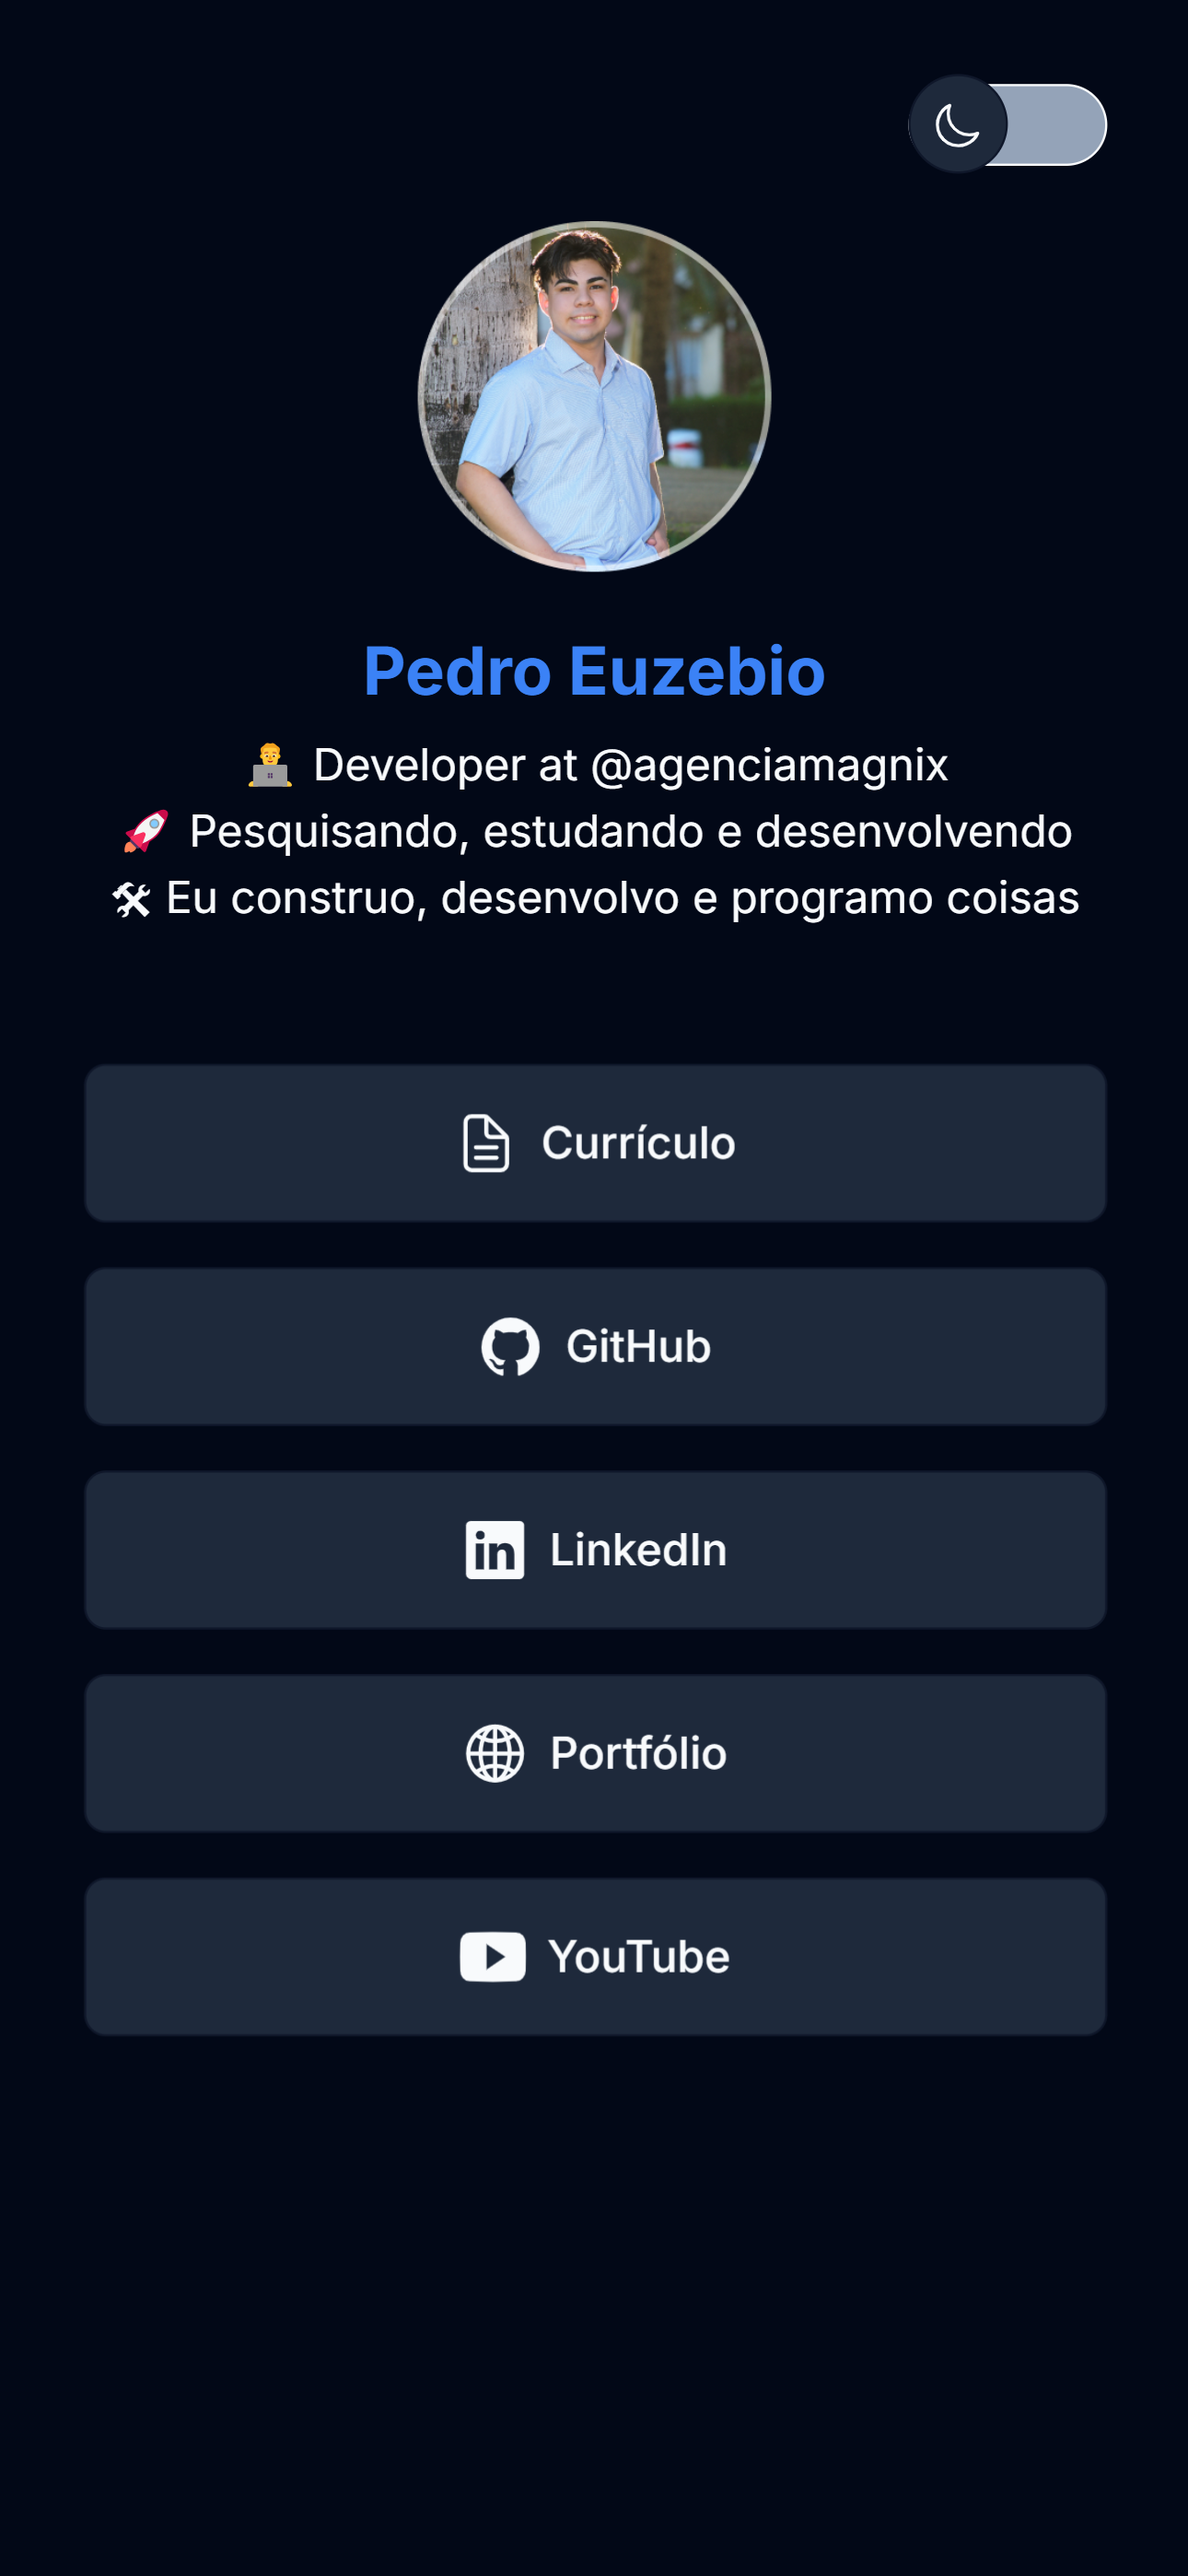
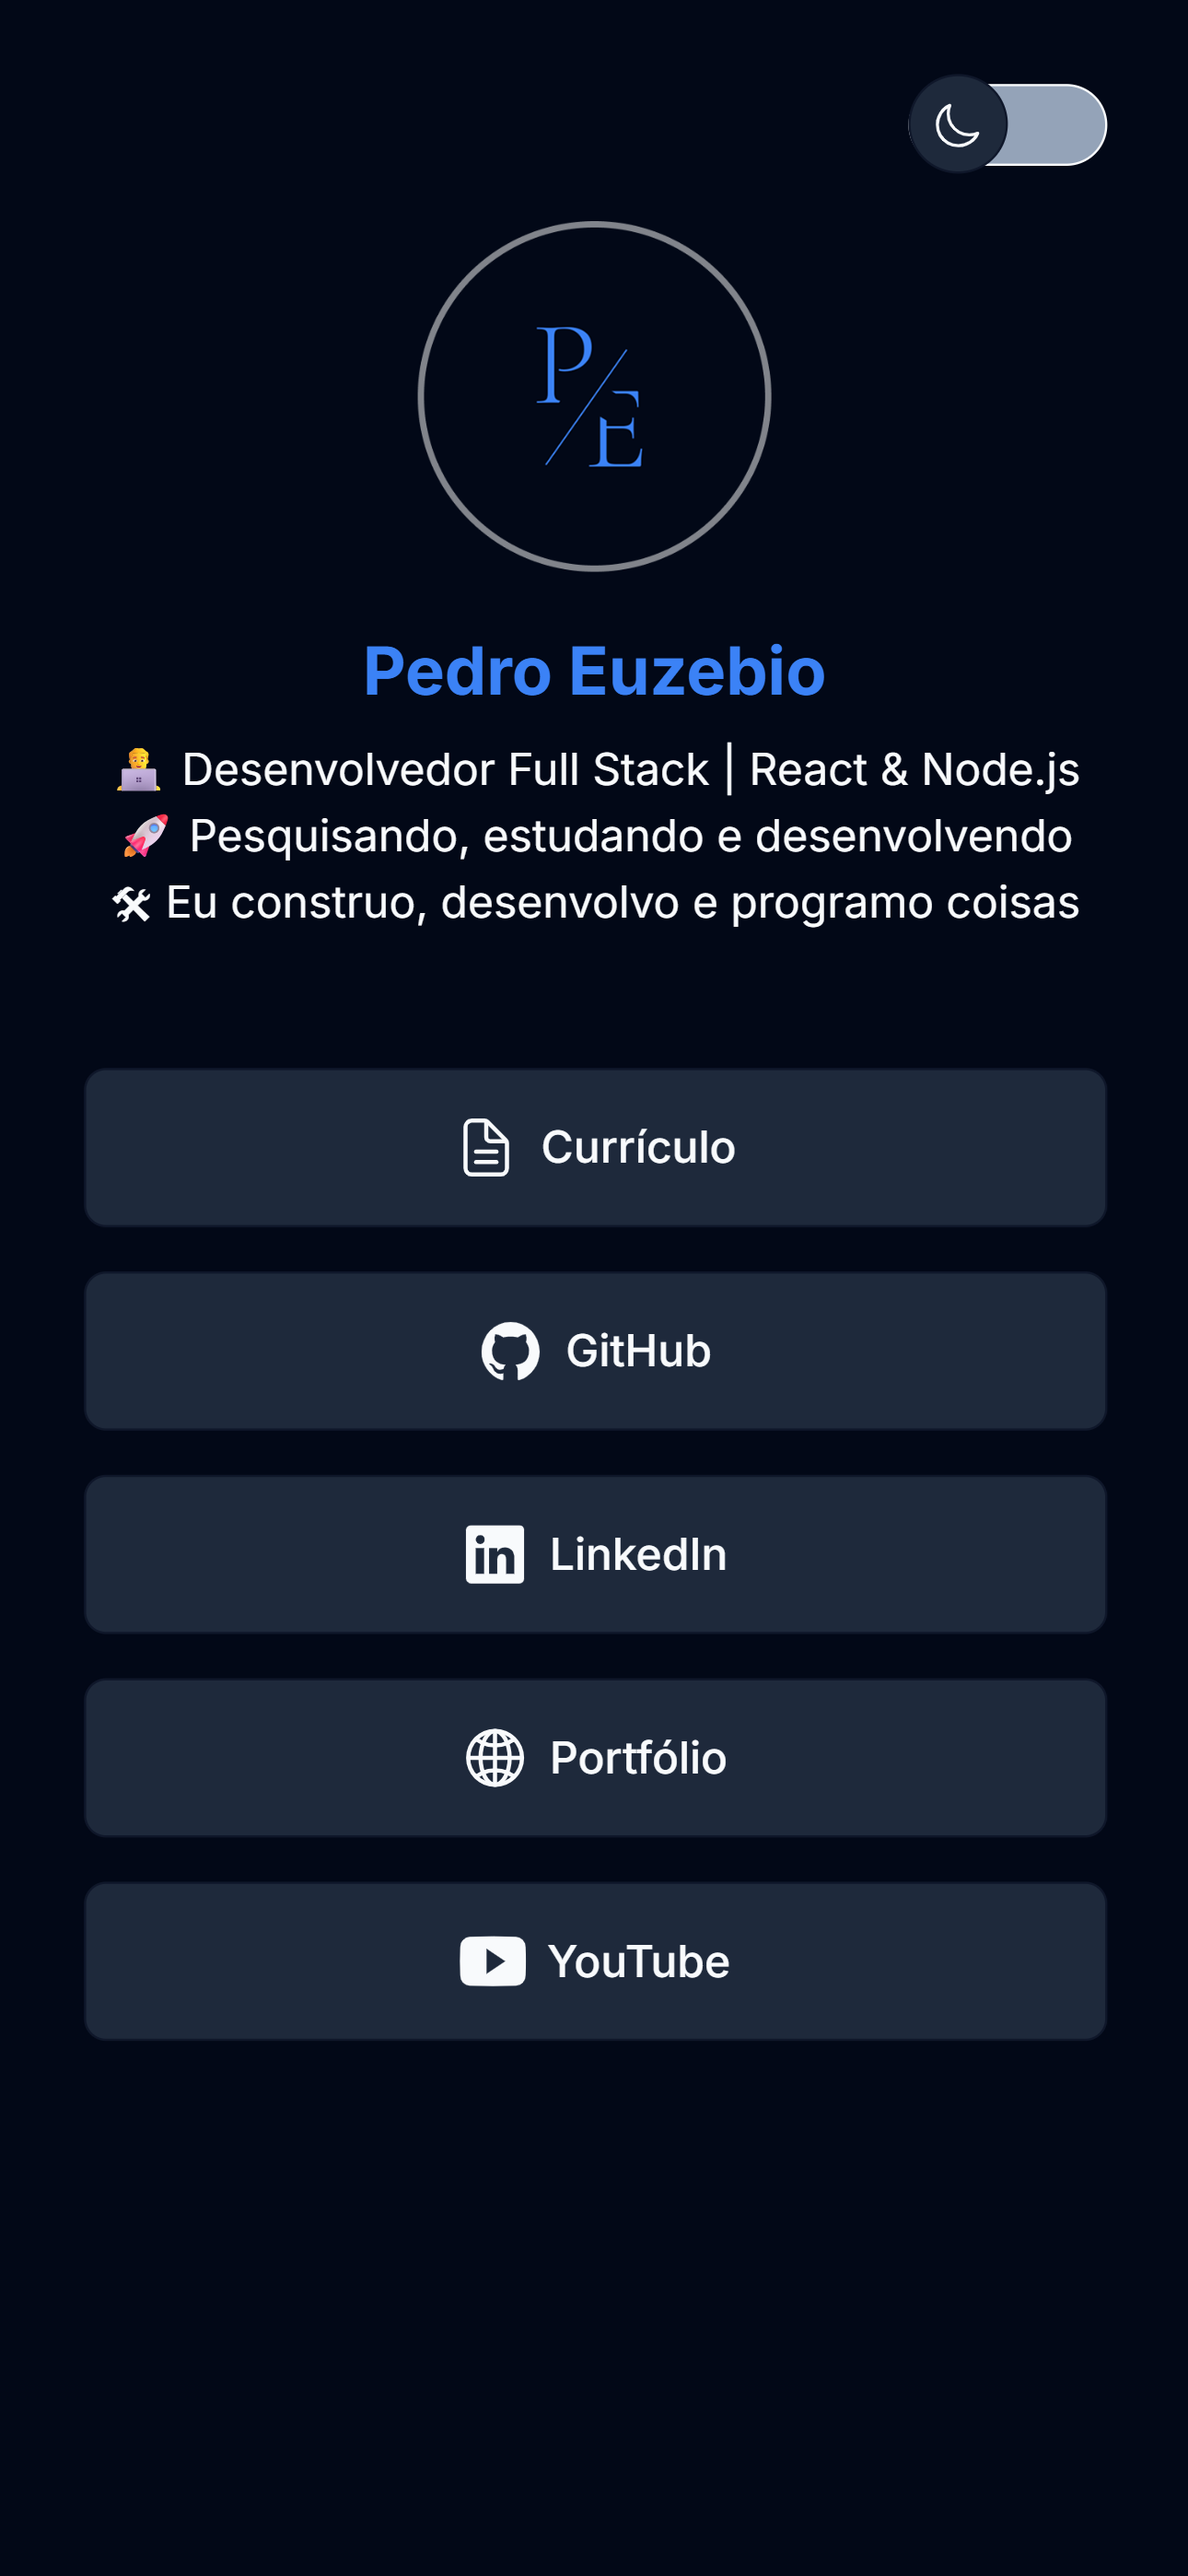
Atualiza README.md

diff --git a/README.md b/README.md
@@ -19,7 +19,7 @@
 </p>
 
 <h1 align="center">
-  <img alt="Pedro Euzebio" title="Pedro Euzebio" src="https://i.imgur.com/gFIozd6.png" />
+  <img alt="Pedro Euzebio" title="Pedro Euzebio" src="https://i.imgur.com/daOHGDW.png" />
 </h1>
 
 <h4 align="center">
